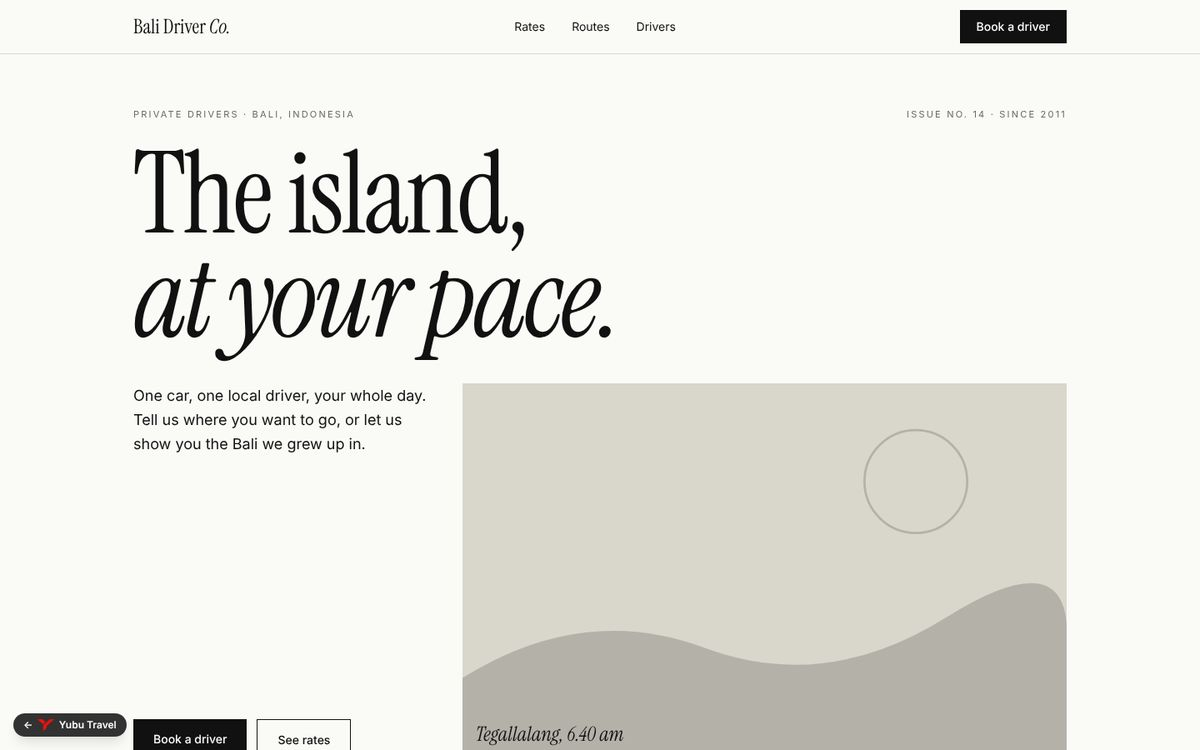
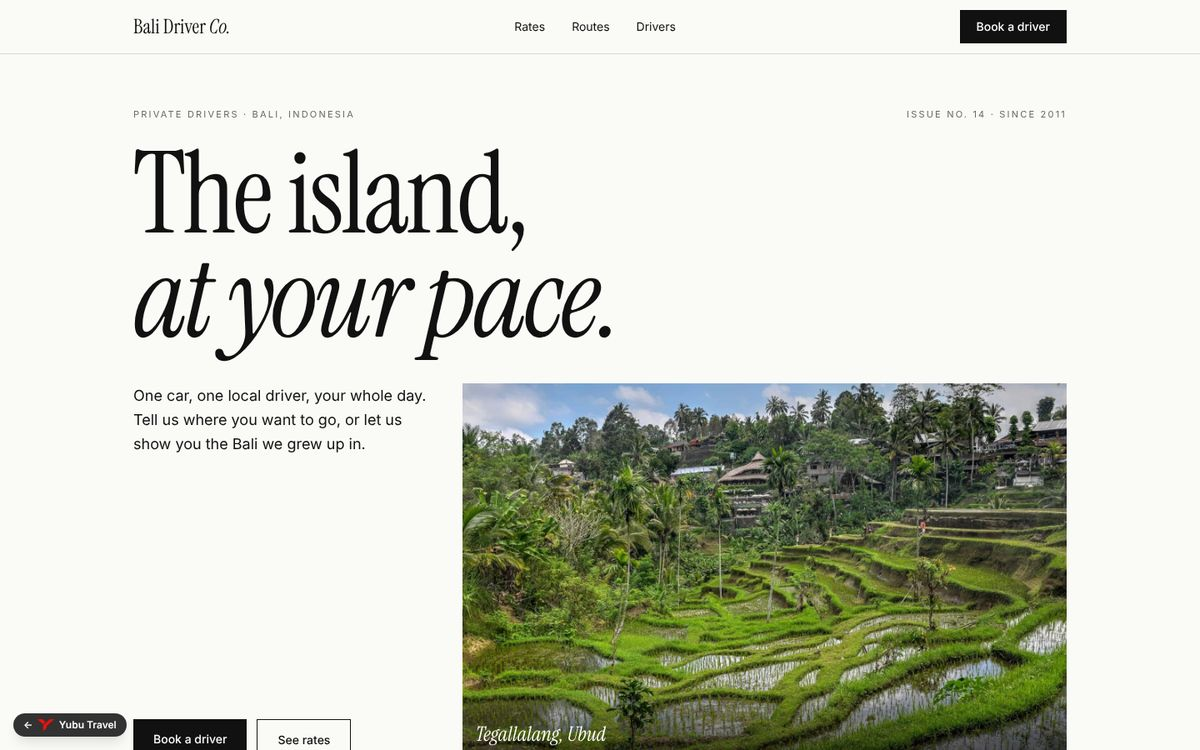
Pasang foto Bali Driver Co.: hero, 4 rute, 3 sopir
- Hero Tegallalang, foto rute Ubud, Uluwatu, Kintamani, East Bali
- Potret Wayan, Made, Komang dipotong 3:4
- Keterangan wilayah dan karakter sopir tetap tampil di atas foto

Claude-Session: https://claude.ai/code/session_01T9xYak59ohEDkUVoekzEJy

Changed region(s): [[0.37, 0.4907, 0.8942, 1.0]]

diff --git a/src/app/bali-driver/data.ts b/src/app/bali-driver/data.ts
@@ -9,9 +9,9 @@ export const usd = (idr: number) => `≈ US$${Math.round(idr / USD_RATE)}`;
 
 /** Images from the client; while null the page shows editorial placeholders. */
 export const IMAGES: { hero: string | null; routes: Record<string, string | null>; drivers: Record<string, string | null> } = {
-  hero: null,
-  routes: { ubud: null, uluwatu: null, kintamani: null, east: null },
-  drivers: { wayan: null, made: null, komang: null },
+  hero: "/bali-driver/hero.jpg",
+  routes: { ubud: "/bali-driver/ubud.jpg", uluwatu: "/bali-driver/uluwatu.jpg", kintamani: "/bali-driver/kintamani.jpg", east: "/bali-driver/east.jpg" },
+  drivers: { wayan: "/bali-driver/wayan.jpg", made: "/bali-driver/made.jpg", komang: "/bali-driver/komang.jpg" },
 };
 
 export type Rate = { id: string; hours: number; name: string; price: number; note: string };

diff --git a/src/app/bali-driver/_components/Editorial.tsx b/src/app/bali-driver/_components/Editorial.tsx
@@ -18,7 +18,12 @@ export function Plate({
     return (
       <figure className={`relative overflow-hidden ${className}`}>
         {/* eslint-disable-next-line @next/next/no-img-element */}
-        <img src={src} alt={alt} className="h-full w-full object-cover" />
+        <img src={src} alt={alt} className="absolute inset-0 h-full w-full object-cover" />
+        {caption && (
+          <figcaption className="absolute inset-x-0 bottom-0 bg-gradient-to-t from-black/60 to-transparent p-4 pt-12 font-display text-xl italic leading-tight text-white md:text-2xl">
+            {caption}
+          </figcaption>
+        )}
       </figure>
     );
   }

diff --git a/src/app/bali-driver/page.tsx b/src/app/bali-driver/page.tsx
@@ -33,7 +33,7 @@ export default function BaliDriverHome() {
               </a>
             </div>
           </div>
-          <Plate src={IMAGES.hero} alt="A driver waiting by the car on a rice-field road" caption="Tegallalang, 6.40 am" className="aspect-[16/10] w-full" />
+          <Plate src={IMAGES.hero} alt="A driver waiting by the car on a rice-field road" caption="Tegallalang, Ubud" className="aspect-[16/10] w-full" />
         </div>
       </section>
 
